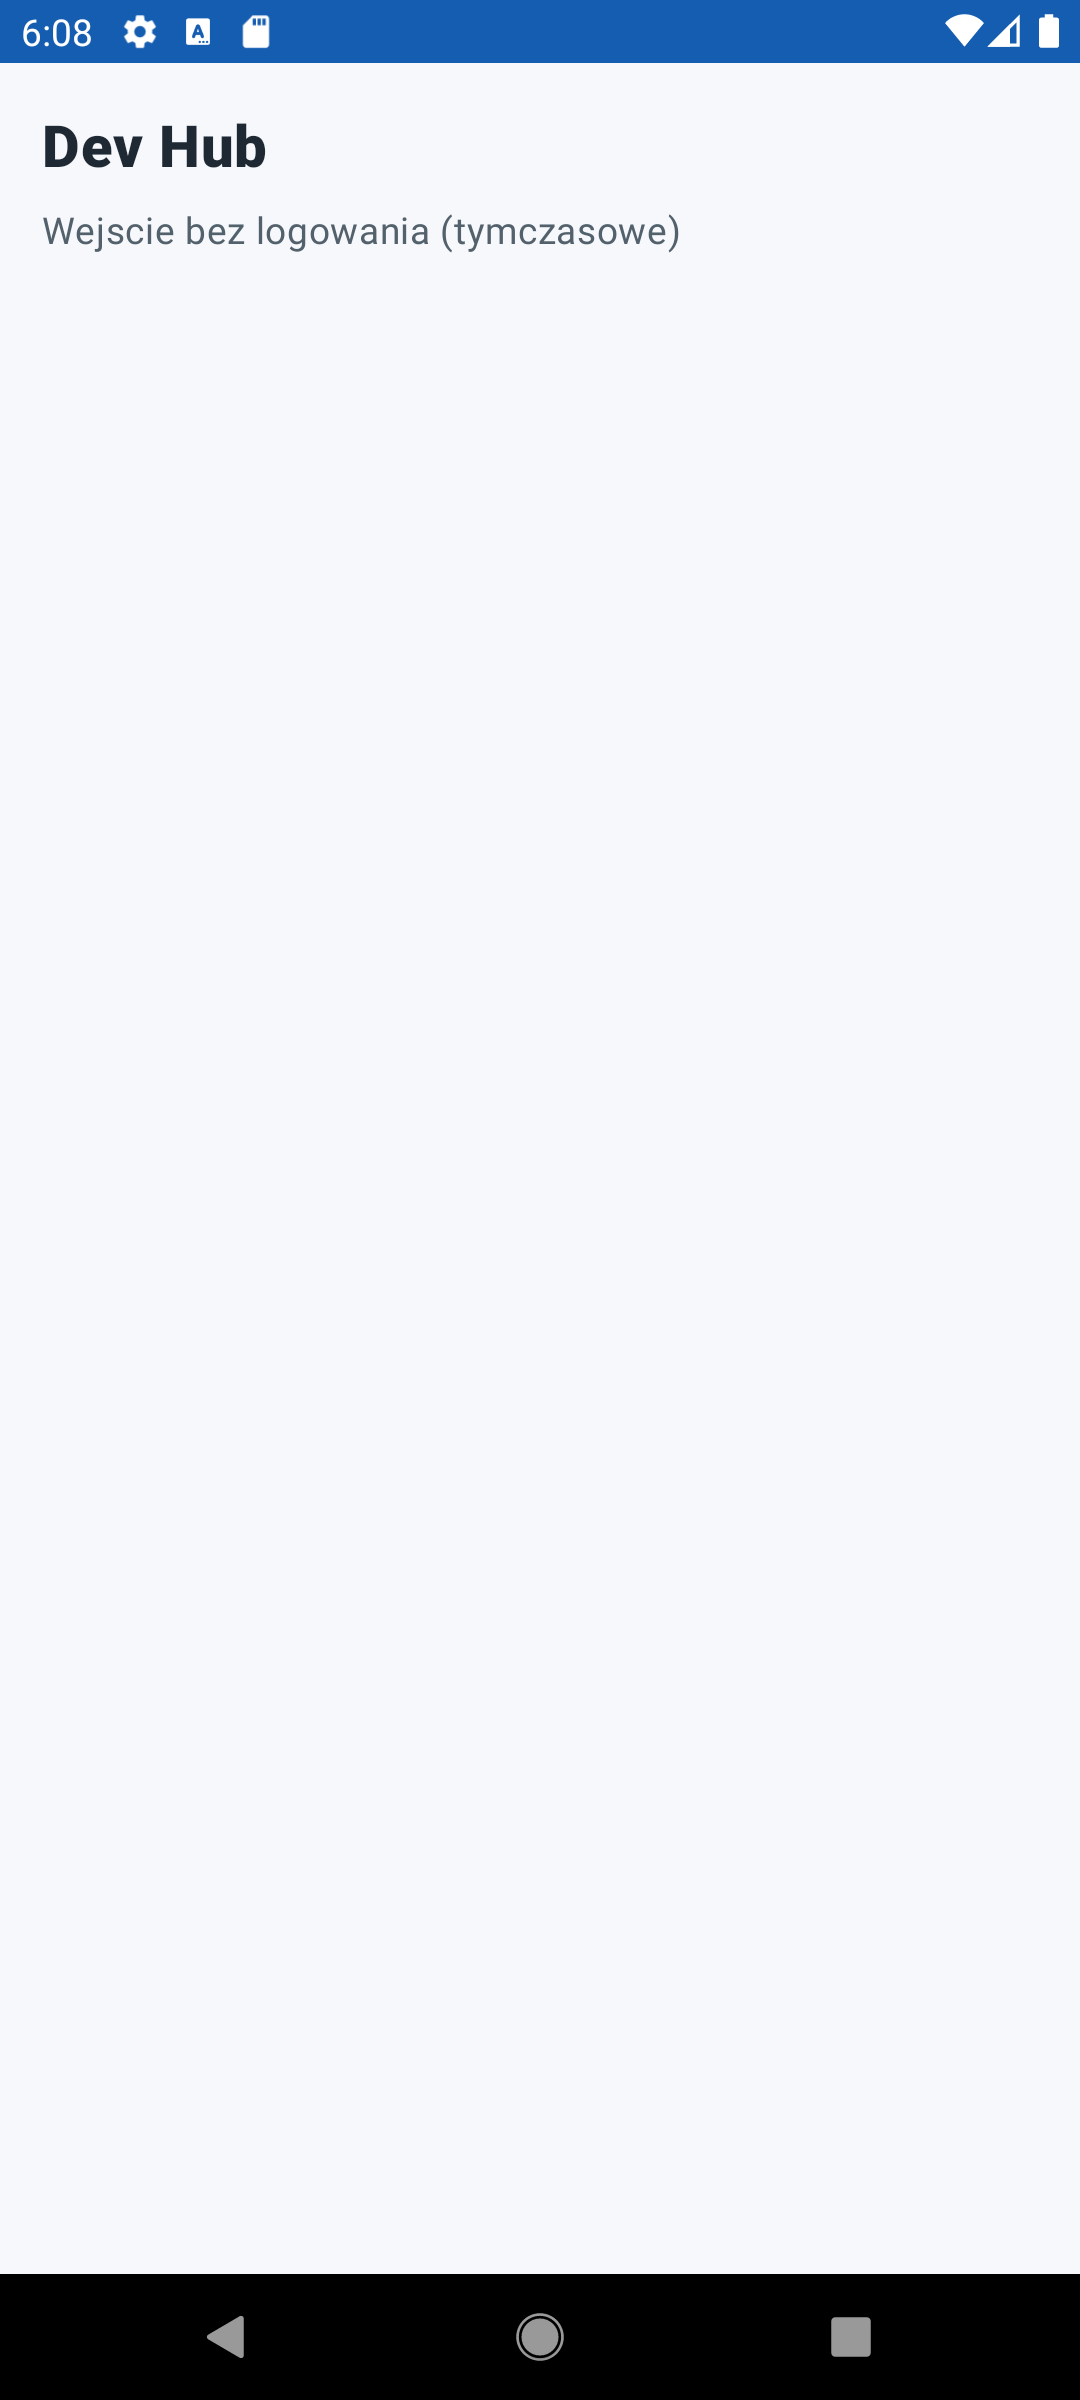
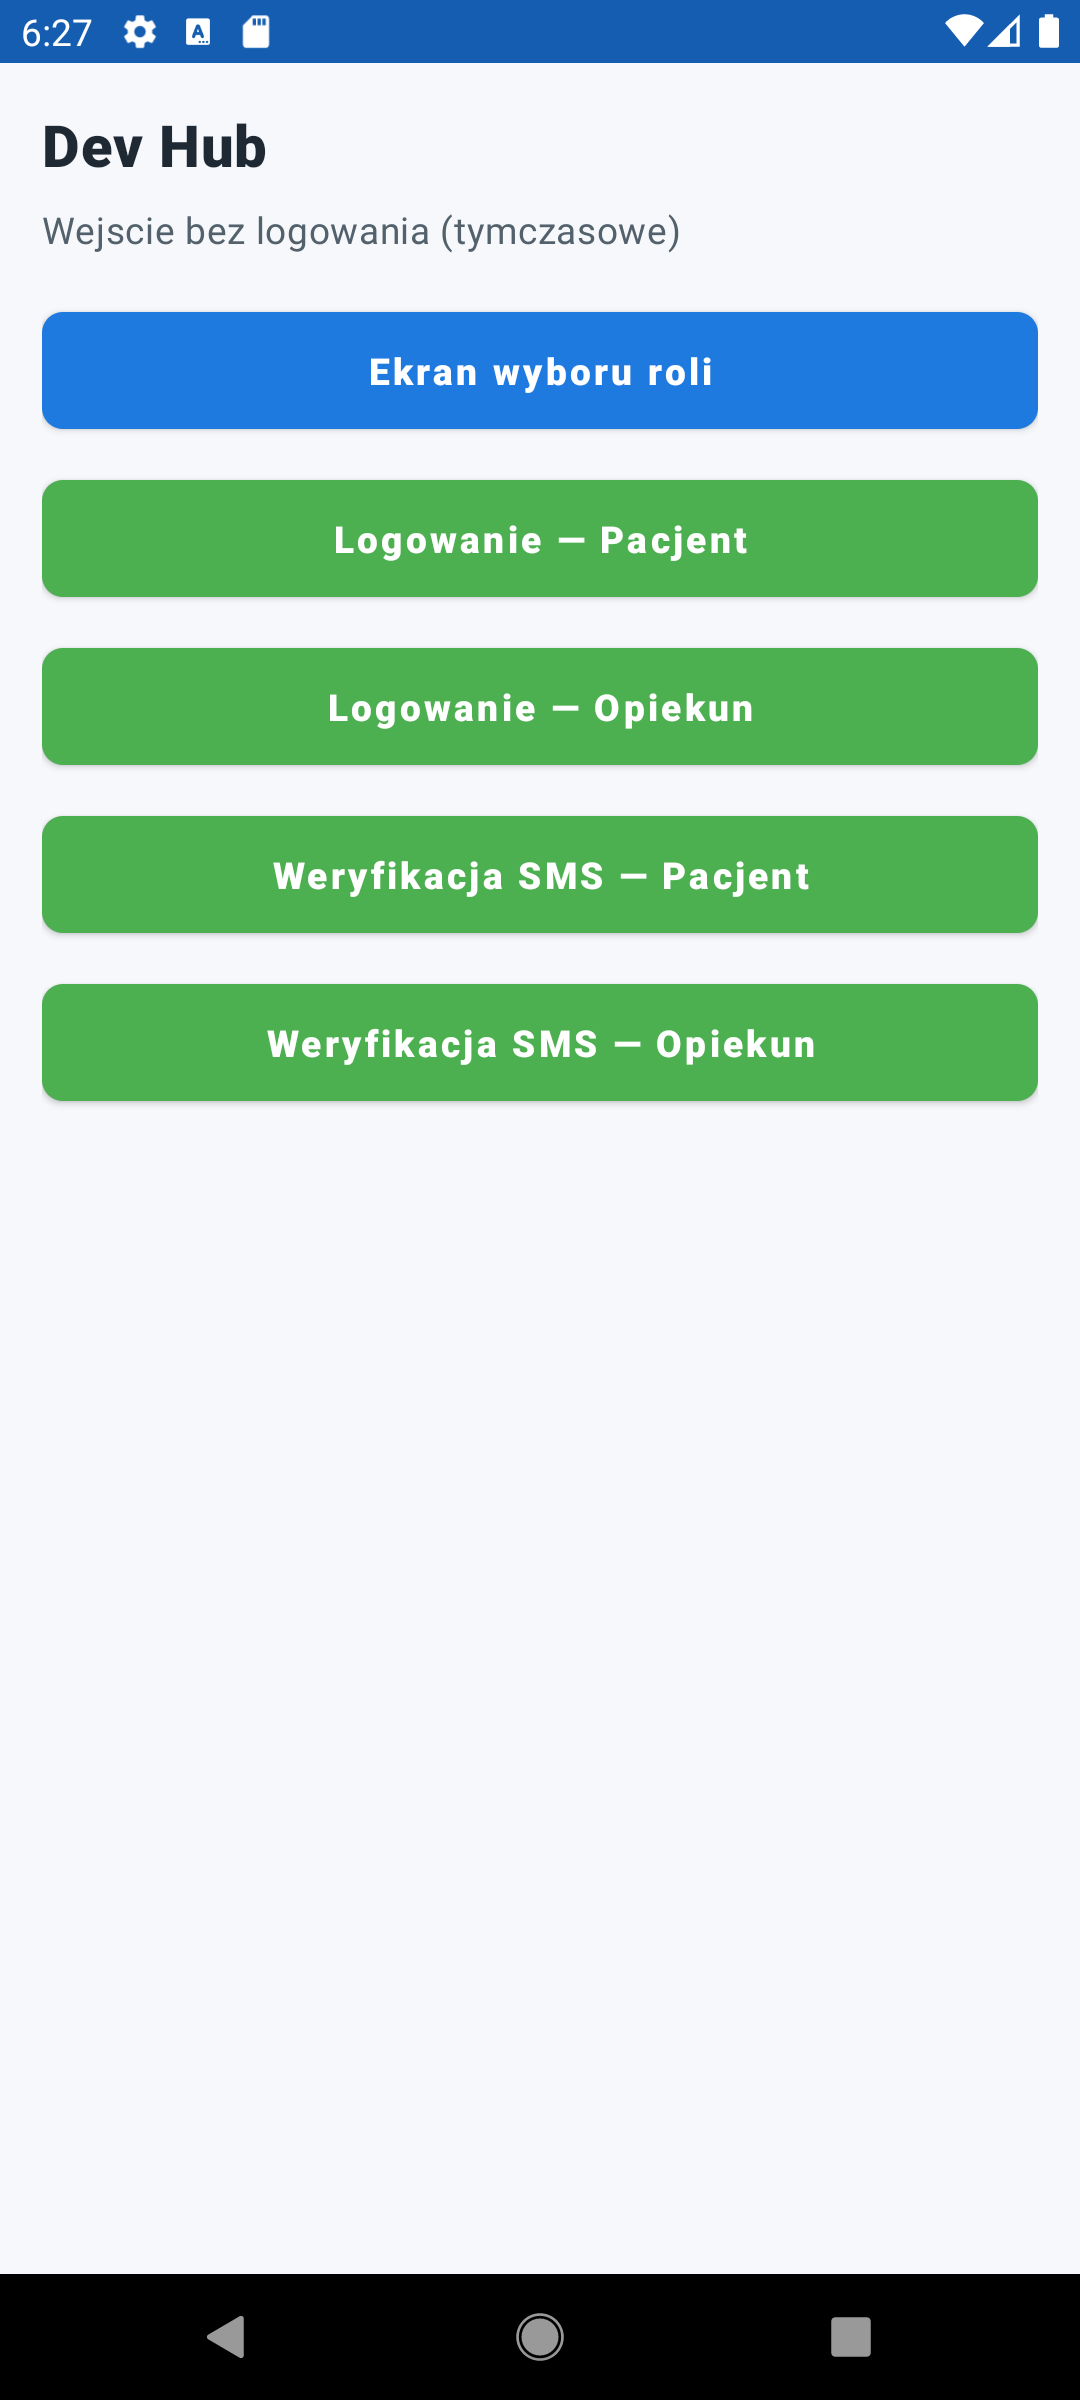
Add patient SMS verification screen

Changed region(s): [[0.0306, 0.125, 0.9778, 0.4688], [0.0611, 0.0, 0.0917, 0.0312]]

diff --git a/ui/src/main/kotlin/zdrowy/senior/io/ui/dev/DevHubFragment.kt b/ui/src/main/kotlin/zdrowy/senior/io/ui/dev/DevHubFragment.kt
@@ -5,6 +5,8 @@ import android.view.LayoutInflater
 import android.view.View
 import android.view.ViewGroup
 import androidx.fragment.app.Fragment
+import androidx.navigation.fragment.findNavController
+import zdrowy.senior.io.ui.R
 import zdrowy.senior.io.ui.databinding.FragmentDevHubBinding
 
 class DevHubFragment : Fragment() {
@@ -17,6 +19,21 @@ class DevHubFragment : Fragment() {
         savedInstanceState: Bundle?
     ): View {
         _binding = FragmentDevHubBinding.inflate(inflater, container, false)
+        binding.devHubRoleSelect.setOnClickListener {
+            findNavController().navigate(R.id.action_devHub_to_roleSelect)
+        }
+        binding.devHubPatientLogin.setOnClickListener {
+            findNavController().navigate(R.id.action_devHub_to_patientLogin)
+        }
+        binding.devHubCaregiverLogin.setOnClickListener {
+            findNavController().navigate(R.id.action_devHub_to_caregiverLogin)
+        }
+        binding.devHubPatientSms.setOnClickListener {
+            findNavController().navigate(R.id.action_devHub_to_patientSmsVerify)
+        }
+        binding.devHubCaregiverSms.setOnClickListener {
+            findNavController().navigate(R.id.action_devHub_to_caregiverSmsVerify)
+        }
         return binding.root
     }
 

diff --git a/ui/src/main/kotlin/zdrowy/senior/io/ui/auth/PatientLoginFragment.kt b/ui/src/main/kotlin/zdrowy/senior/io/ui/auth/PatientLoginFragment.kt
@@ -25,6 +25,10 @@ class PatientLoginFragment : Fragment() {
         binding.patientLoginContinue.setOnClickListener {
             findNavController().navigate(R.id.action_patientLogin_to_patientSmsVerify)
         }
+        binding.patientLoginContinue.setOnLongClickListener {
+            findNavController().navigate(R.id.action_patientLogin_to_devHub)
+            true
+        }
         return binding.root
     }
 

diff --git a/docs/PLAN.md b/docs/PLAN.md
@@ -42,7 +42,7 @@ Zasady etapu:
 - [x] Layouty i widoki — Logowanie (telefon/kod) — pacjent
 - [x] Layouty i widoki — Logowanie (telefon/kod) — opiekun
 - [x] Layouty i widoki — Dev Hub (wejscie bez logowania)
-- [ ] Layouty i widoki — Weryfikacja SMS — pacjent
+- [x] Layouty i widoki — Weryfikacja SMS — pacjent
 - [ ] Layouty i widoki — Weryfikacja SMS — opiekun
 - [ ] Dummy repo (mock danych zgodnych z makietami)
 - [ ] Use case logika (dummy)
